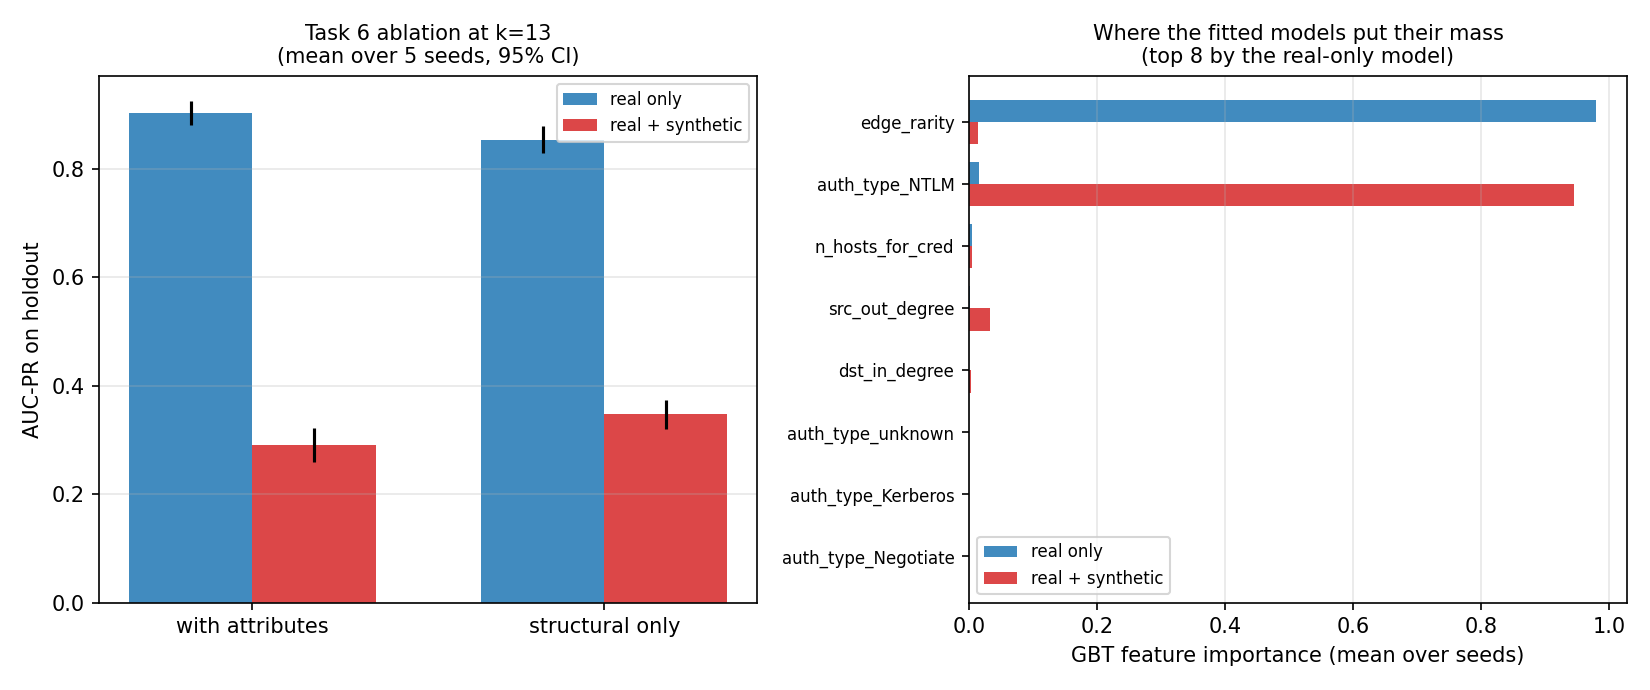
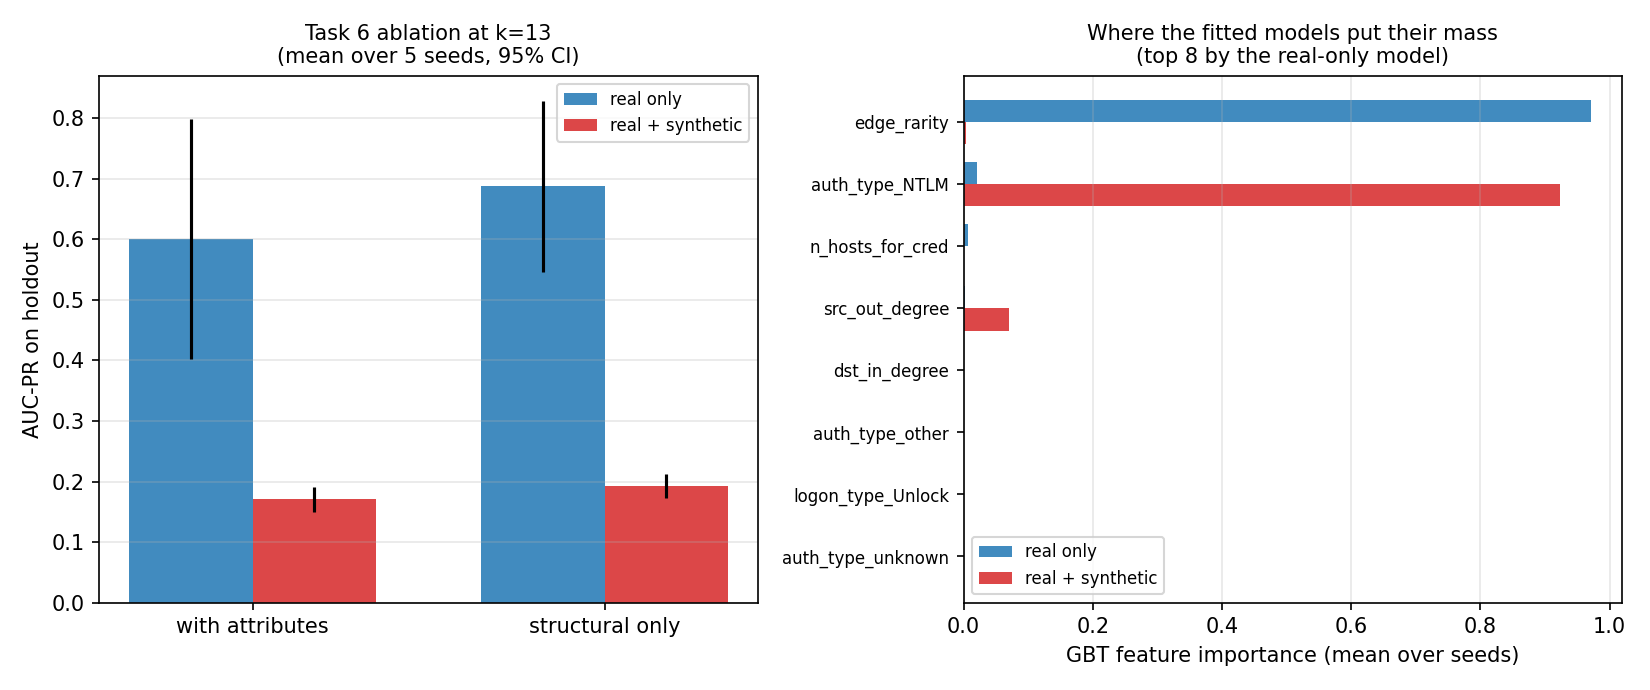
fix: seed counts in figure captions and table headers were hardcoded to 5
Now that n_seeds is a command-line override, every caption and header read
'5 seeds' regardless of what was actually run. They report the real cell
count instead.

Also adds --figure-only to baselines/ablation/baserate (the sweep already
had it), so regenerating a plot reuses the saved JSON rather than repeating
the measurement -- which is what made this caption fix expensive to apply.

Claude-Session: https://claude.ai/code/session_01SFv34BJhzPT7ksS1enP3GG

diff --git a/scripts/run_day4.py b/scripts/run_day4.py
@@ -335,7 +335,8 @@ def plot_curve(summary, path):
     ax.set_xlabel("k = real red-team campaigns available for training")
     ax.set_ylabel("AUC-PR on holdout")
     ax.set_title("Scarcity curve: does synthetic data substitute for scarce real data?\n"
-                 "mean over 5 seeds, 95% CI band (normal approx.)", fontsize=10)
+                 f"mean over {max(v['n'] for v in summary.values())} seeds, "
+                 f"95% CI band (normal approx.)", fontsize=10)
     ax.legend()
     ax.grid(alpha=0.3)
     fig.tight_layout()
@@ -494,7 +495,7 @@ def plot_baselines(res, path):
     ax.set_yticklabels(labels, fontsize=8)
     ax.set_xlabel("AUC-PR on the real holdout (51 pos / 205,612 neg)")
     ax.set_title("V3 baselines + TSTR, all evaluated on the real holdout\n"
-                 "mean over 5 seeds, 95% CI (rarity is training-free: one value)",
+                 f"mean over {len(cells)} seeds, 95% CI (rarity is training-free: one value)",
                  fontsize=10)
     ax.grid(axis="x", alpha=0.3)
     fig.tight_layout()
@@ -573,7 +574,7 @@ def plot_ablation(res, path):
     ax1.set_xticks(x)
     ax1.set_xticklabels(names)
     ax1.set_ylabel("AUC-PR on holdout")
-    ax1.set_title(f"Task 6 ablation at k={res['k']}\n(mean over 5 seeds, 95% CI)",
+    ax1.set_title(f"Task 6 ablation at k={res['k']}\n(mean over {len(res['cells'])} seeds, 95% CI)",
                   fontsize=10)
     ax1.legend(fontsize=8)
     ax1.grid(axis="y", alpha=0.3)
@@ -731,11 +732,24 @@ def run_sweep(cfg):
           f"k-values (missing={missing}, failures={len(failures)})")
 
 
+def compute_or_load(compute, ctx, out_json):
+    """Run the measurement, or with --figure-only reuse the saved results.
+
+    Regenerating a plot should not cost the hour the measurement cost -- which it
+    did, the first time a figure caption needed changing. The sweep already had
+    this; the other three tasks did not.
+    """
+    if "--figure-only" in sys.argv:
+        with open(out_json, encoding="utf-8") as f:
+            return json.load(f)
+    return compute(ctx, out_json)
+
+
 def run_baselines(ctx, figures, out_json):
-    res = baselines(ctx, out_json)
+    res = compute_or_load(baselines, ctx, out_json)
     table(res["cells"], BASELINE_ARMS,
           f"TASK 5: V3 BASELINES + TSTR at k={res['k']} (real holdout, "
-          f"mean +/- 95% CI over 5 seeds)",
+          f"mean +/- 95% CI over {len(res['cells'])} seeds)",
           f"  #3 rarity heuristic, no training, no seed:  {res['rarity_only']:.4f}\n"
           f"  chance (= holdout base rate):               {res['base_rate']:.6f}")
     fig = f"{figures}/baselines_tstr.png"
@@ -744,13 +758,13 @@ def run_baselines(ctx, figures, out_json):
 
 
 def run_ablation(ctx, figures, out_json):
-    res = ablation(ctx, out_json)
+    res = compute_or_load(ablation, ctx, out_json)
     arms = [(f"{arm}::{name}", f"{label} / {name}")
             for name, _ in ABLATIONS
             for arm, label in (("real", "real only"), ("aug", "real + synthetic"))]
     table(res["cells"], arms,
           f"TASK 6: STRUCTURAL-ONLY ABLATION at k={res['k']} "
-          f"(mean +/- 95% CI over 5 seeds)")
+          f"(mean +/- 95% CI over {len(res['cells'])} seeds)")
     for key, label in (("importance_real", "real-only"), ("importance_aug", "augmented")):
         imp = mean_importance(res["cells"], key)
         print(f"\n  GBT feature importance, {label} model (top 6, mean over seeds):")
@@ -764,7 +778,7 @@ def run_ablation(ctx, figures, out_json):
 
 
 def run_baserate(ctx, figures, out_json):
-    res = baserate_sweep(ctx, out_json)
+    res = compute_or_load(baserate_sweep, ctx, out_json)
     report_baserate(res)
     fig = f"{figures}/baserate_sweep.png"
     plot_baserate(res, fig)
